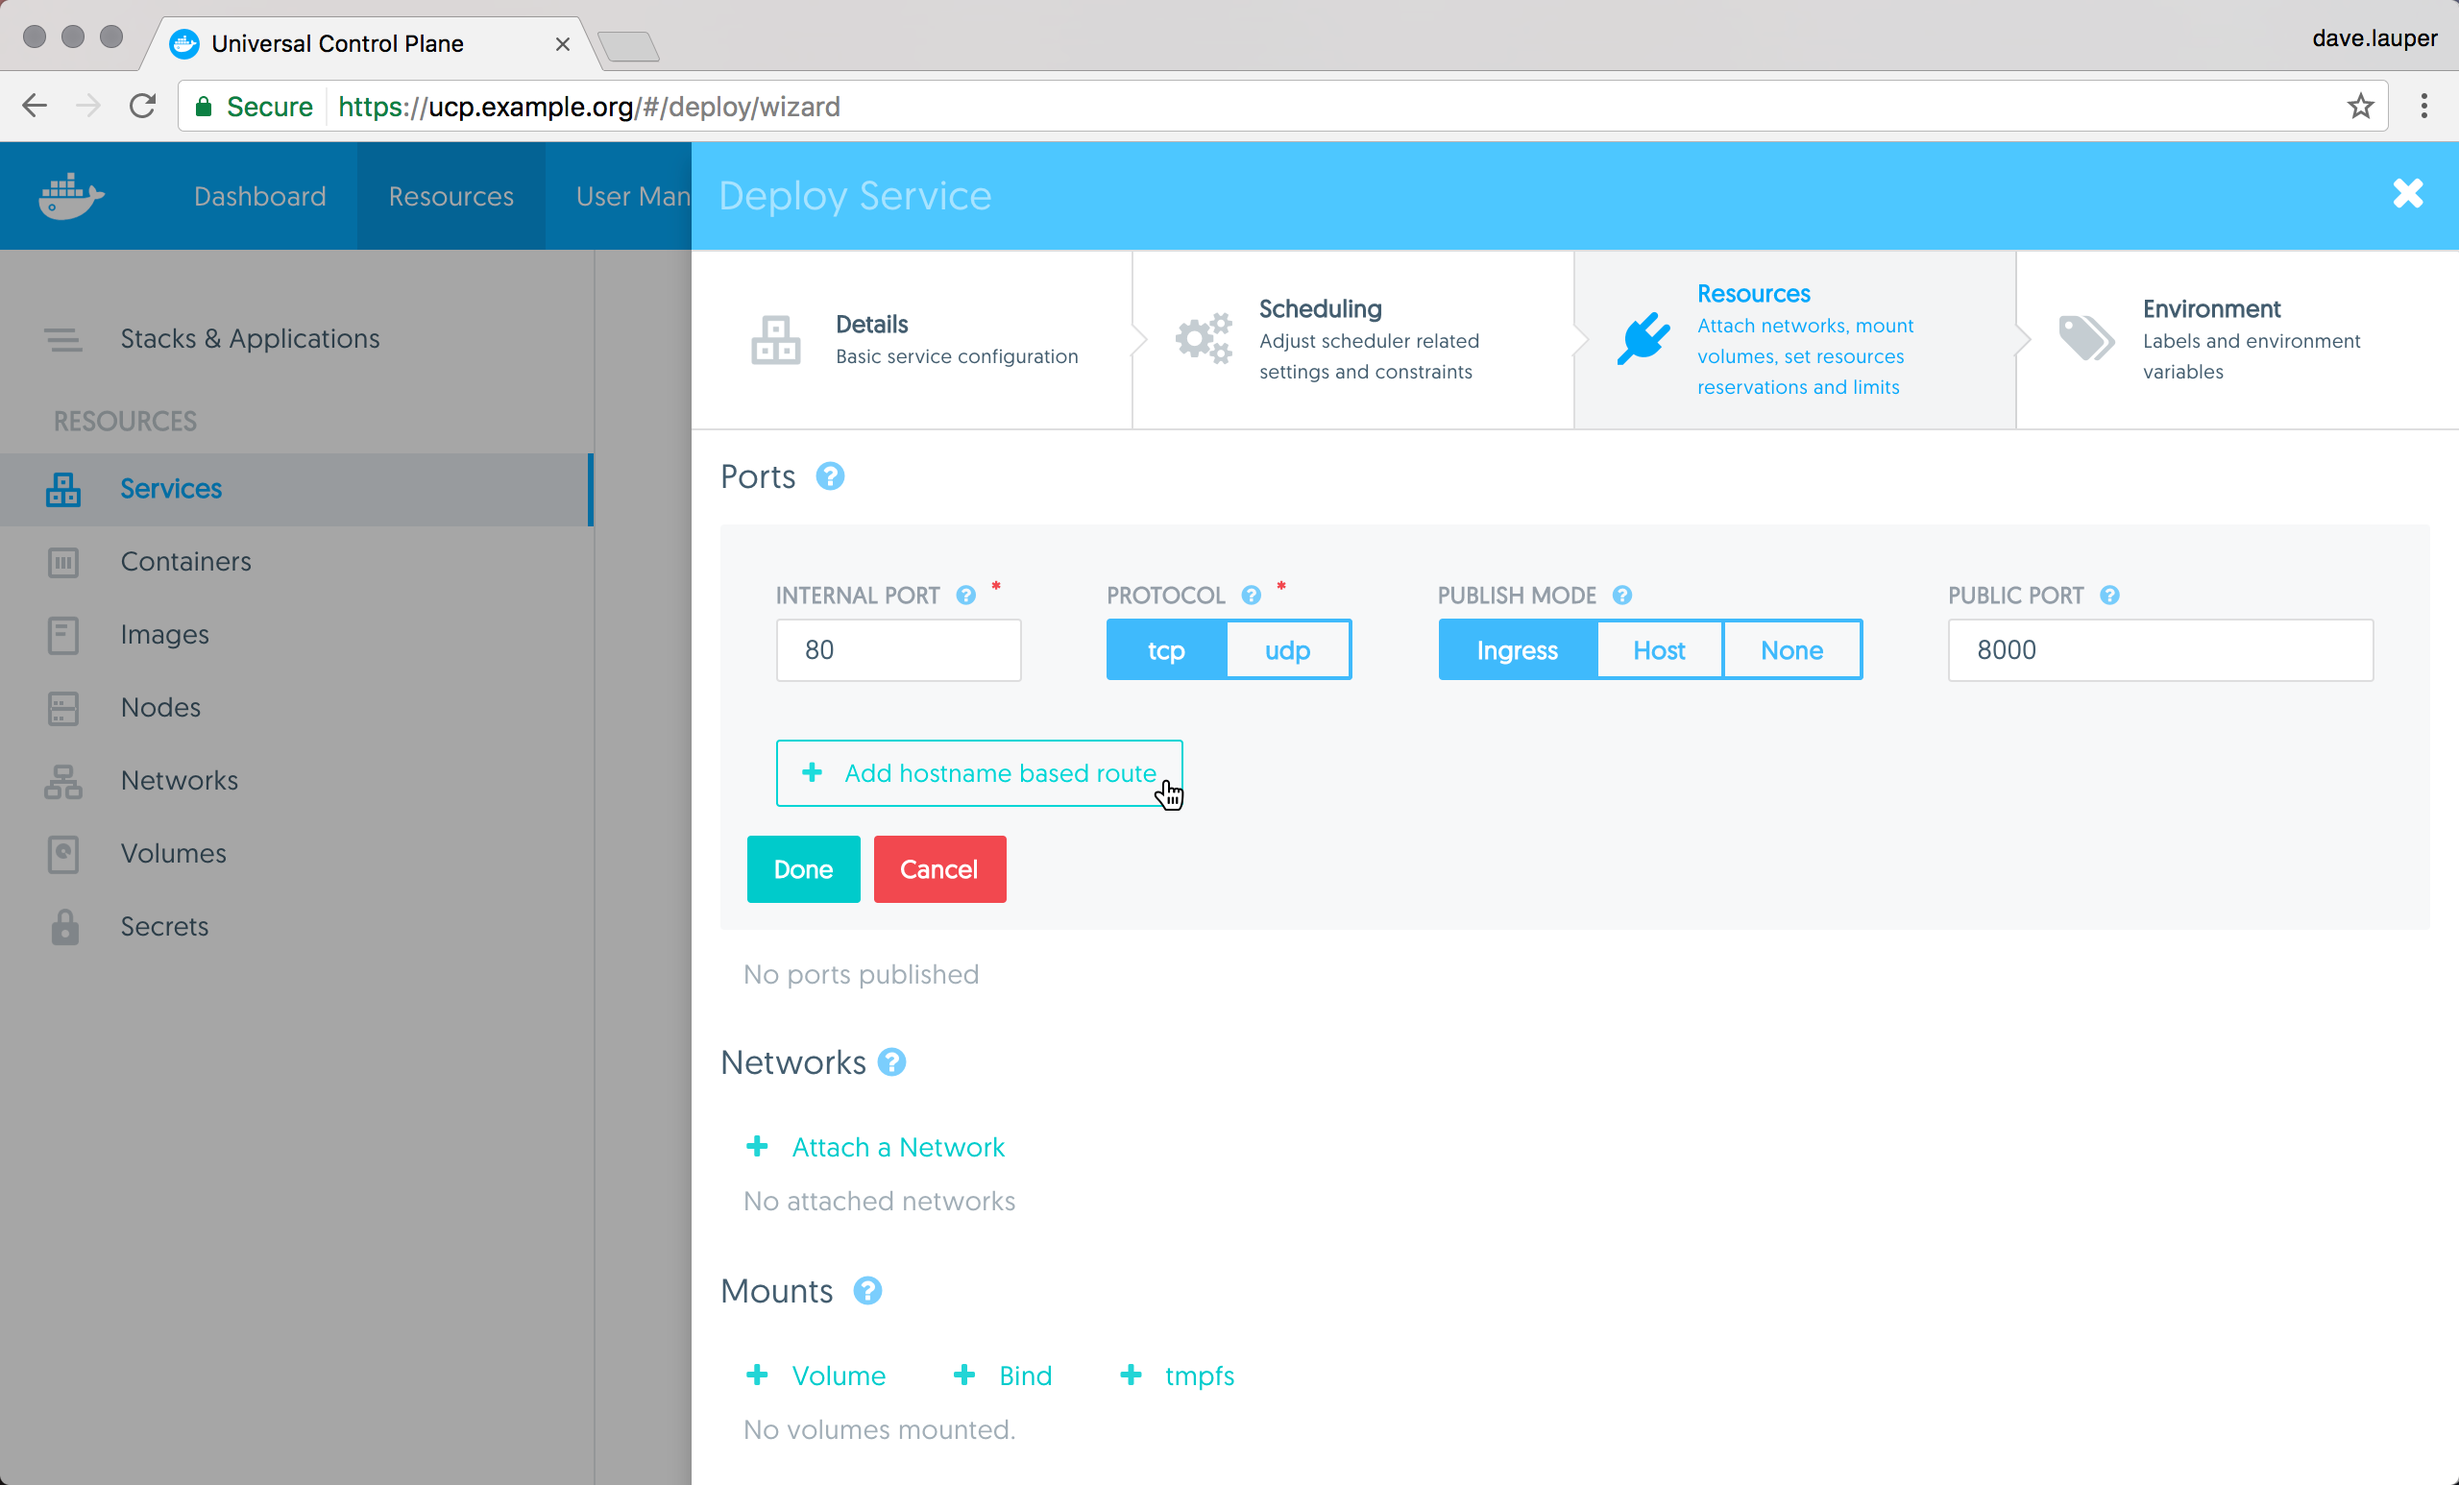
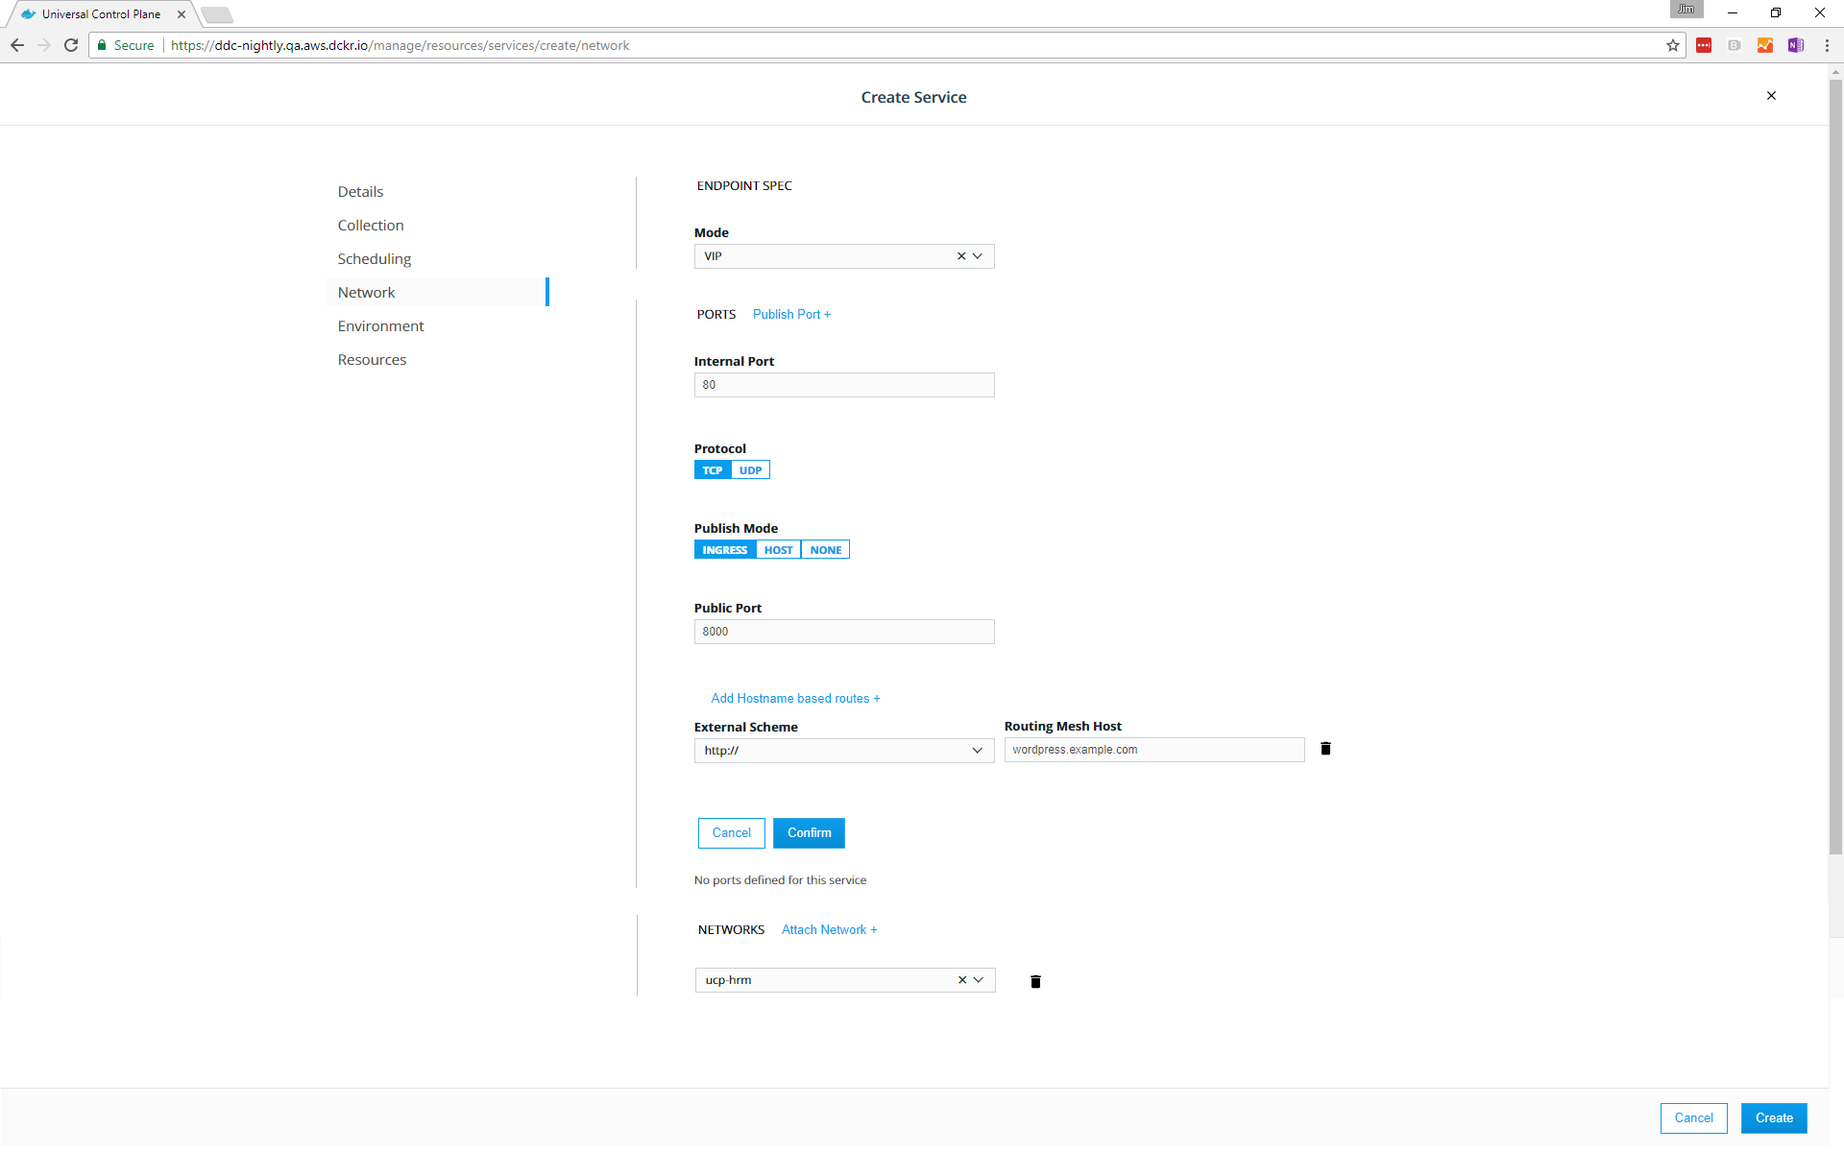
Update HRM topics and screenshots (#107)
* Update hrm screenshot

* Update HRM topics and screenshots

diff --git a/datacenter/ucp/2.2/guides/user/services/use-domain-names-to-access-services.md b/datacenter/ucp/2.2/guides/user/services/use-domain-names-to-access-services.md
@@ -1,17 +1,17 @@
 ---
 title: Use domain names to access services
 description: Learn how to configure your services to make them accessible using a hostname instead of IP addresses and ports.
-keywords: ucp, services, http, dns
+keywords: ucp, services, http, dns, https, routing
 redirect_from:
 - /datacenter/ucp/2.1/guides/user/services/use-hostnames-to-access-your-service/
 ---
 
-You can make it easier for users to access your HTTP and HTTPS services, by
+You can make it easier for users to access your HTTP and HTTPS services by
 making them accessible from a domain name, instead of an IP address.
 
 ![http routing mesh](../../images/use-domain-names-2.svg)
 
-In this example, we're going to deploy a Wordpress service and make it accessible
+In this example, we're going to deploy a WordPress service and make it accessible
 to users at `http://wordpress.example.org`.
 
 ## Enable the HTTP routing mesh
@@ -20,22 +20,41 @@ Before you start, make sure an administrator user has
 [enabled the HTTP routing mesh service](../../admin/configure/use-domain-names-to-access-services.md).
 You also need permissions to attach services to the `ucp-hrm` network.
 
-## Deploy Wordpress
+## Deploy WordPress
 
-Log in the **UCP web UI**, navigate to the **Services** page, and click
-**Create a service**. Then create a Wordpress service with the following
-configurations:
+Log in the UCP web UI, navigate to the **Services** page, and click
+**Create Service**. Then create a WordPress service with the following
+configuration:
 
 | Field             | Value                 |
 |:------------------|:----------------------|
 | Service name      | wordpress             |
 | Image name        | wordpress:latest      |
+
+In the left pane, click **Network**. In the **Ports** section, click **Publish Port**
+and assign the following values.
+
+
+| Field             | Value                 |
+|:------------------|:----------------------|
 | Internal port     | 80                    |
 | Protocol          | tcp                   |
 | Publish Mode      | ingress               |
 | Public port       | 8000                  |
+
+Click **Add Hostname based routes** and assign the routing values.
+
+| Field             | Value                 |
+|:------------------|:----------------------|
 | External scheme   | http://               |
 | Routing mesh host | wordpress.example.com |
+
+Click **Confirm** to assign the network configuration.
+
+Finally, you need to connect the service to the `ucp-hrm` network. This is
+what ensures traffic sent to the HTTP routing mesh is redirected to your
+service. In the **Networks** section, click **Attach Network** and select
+`ucp-hrm` from the dropdown list.
 
 When creating the service, make sure to publish both internal and public ports.
 This maps the port 80 on the container running the service, to port 8000 on the
@@ -43,24 +62,13 @@ ingress routing mesh.
 
 ![](../../images/use-domain-names-4.png){: .with-border}
 
-Then click the **Add hostname based route** to set the hostname that will
-resolve to the service.
-
-![](../../images/use-domain-names-5.png){: .with-border}
-
-Finally, you need to connect the service to the `ucp-hrm` network. This is
-what ensures traffic send to the HTTP routing mesh is redirected to your
-service.
-
-![](../../images/use-domain-names-6.png){: .with-border}
-
-Click **Deploy now** to deploy your service. Once the service is deployed,
+Click **Create** to deploy your service. Once the service is deployed,
 the HTTP routing mesh service is reconfigured to redirect HTTP requests with
-the hostname set to `wordpress.example.org`, to the Wordpress service.
+the hostname set to `wordpress.example.org`, to the WordPress service.
 
 ## Add a DNS entry
 
-Now that Wordpress is deployed, add a new DNS entry that maps
+Now that WordPress is deployed, add a new DNS entry that maps
 `wordpress.example.org` to the IP address of any node in the UCP cluster.
 When testing locally, you can also change your `/etc/hosts` file to
 create this mapping, instead of using a DNS service.
@@ -71,7 +79,7 @@ Once this is done, you can access the wordpress service from your browser.
 
 ## From the CLI
 
-To deploy the Wordpress service from the CLI, you need to add labels to the
+To deploy the WordPress service from the CLI, you need to add labels to the
 service that are specific to the HTTP routing mesh.
 
 Once you get your [UCP client bundle](../access-ucp/cli-based-access.md), you
@@ -95,16 +103,24 @@ to your services.
 
 The HTTP routing mesh can route to a service, as long as that service:
 
-* Is attached to a network that has the `com.docker.ucp.mesh.http` label. You can use the default ucp-hrm network or create your own.
-* Publishes the ports that you want to route to
-* Has one or more labels with the prefix `com.docker.ucp.mesh.http`, specifying
-the ports to route to
+*  Is attached to a network that has the `com.docker.ucp.mesh.http` label.
+   You can use the default `ucp-hrm` network or create your own.
+*  Publishes the ports that you want to route to.
+*  Has one or more labels with the prefix `com.docker.ucp.mesh.http`, specifying
+   the ports to route to.
 
 ### Service labels
 
 The HTTP routing mesh label that you apply to your services needs to have a list
 of keys and values separated by a comma, specifying how to route the traffic to
-your service. The label syntax looks like this:
+your service.
+
+The label for the WordPress service you just created looks like this:
+
+-  Key: `com.docker.ucp.mesh.http.80-1`
+-  Value: `internal_port=8000,external_route=http://wordpress.example.com` 
+
+The label syntax looks like this:
 
 ```none
 com.docker.ucp.mesh.http[.label-number]=<key-1>=<value-1>,<key-2>=<value-2>

diff --git a/datacenter/ucp/2.2/guides/admin/configure/use-domain-names-to-access-services.md b/datacenter/ucp/2.2/guides/admin/configure/use-domain-names-to-access-services.md
@@ -1,8 +1,7 @@
 ---
-title: Use domain names to access services
-description: Docker Universal Control Plane has an HTTP routing mesh that
-  allows you to make your services accessible through a domain name. Learn more.
-keywords: ucp, services, http, dns
+title: Enable using domain names to access services
+description: Docker Universal Control Plane has an HTTP routing mesh that allows you to make your services accessible through a domain name.
+keywords: ucp, services, http, https, dns, routing
 ---
 
 Docker has a transport-layer load balancer, also known as an L4 load balancer.
@@ -11,34 +10,34 @@ running.
 
 ![swarm routing mesh](../../images/use-domain-names-1.svg)
 
-In this example, the wordpress service is being served on port 8080.
-Users can access wordpress using the IP address of any node
-in the cluster and port 8080. If wordpress is not running in that node, the
+In this example, the WordPress service is being served on port 8000.
+Users can access WordPress using the IP address of any node in the swarm
+and port 8000. If WordPress is not running in that node, the
 request is redirected to a node that is.
 
 UCP extends this and provides an HTTP routing mesh for application-layer
-load balancing. This allows you to access services with HTTP and HTTPS endpoints
-using a domain name instead of an IP.
+load balancing. This allows you to access services with HTTP and HTTPS
+endpoints using a domain name instead of an IP.
 
 ![http routing mesh](../../images/use-domain-names-2.svg)
 
-In this example, the Wordpress service listens on port 8080 and is attached to
+In this example, the WordPress service listens on port 8000 and is attached to
 the `ucp-hrm` network. There's also a DNS entry mapping `wordpress.example.org`
 to the IP addresses of the UCP nodes.
 
-When users access `wordpress.example.org:80`, the HTTP routing mesh routes
-the request to the service running Wordpress in a way that is transparent to
+When users access `wordpress.example.org:8000`, the HTTP routing mesh routes
+the request to the service running WordPress in a way that is transparent to
 the user.
 
 ## Enable the HTTP routing mesh
 
-To enable the HTTP routing mesh, go to the **UCP web UI**, navigate to the
-**Settings** page, and click the **Routing Mesh** option.
-Check the **Enable HTTP routing mesh** option.
+To enable the HTTP routing mesh, Log in as an administrator, go to the
+UCP web UI, navigate to the **Admin Settings** page, and click the
+**Routing Mesh** option. Check the **Enable routing mesh** option.
 
 ![http routing mesh](../../images/use-domain-names-3.png){: .with-border}
 
-By default the HTTP routing mesh service listens on port 80 for HTTP and port
+By default, the HTTP routing mesh service listens on port 80 for HTTP and port
 8443 for HTTPS. Change the ports if you already have services that are using
 them.
 
@@ -61,7 +60,7 @@ When a user tries to access an HTTP service from that domain name:
 2. The HTTP routing mesh looks at the Hostname header in the HTTP request
 3. If there's a service that maps to that hostname, the request is routed to the
 port where the service is listening
-4. If not, the user receives an HTTP 503, bad gateway error
+4. If not, the user receives an `HTTP 503, bad gateway` error.
 
 For services exposing HTTPS things are similar. The HTTP routing mesh doesn't
 terminate the TLS connection, and instead leverages an extension to TLS called
@@ -79,4 +78,5 @@ requests.
 
 ## Where to go next
 
-* [Run only the images you trust](run-only-the-images-you-trust.md)
+- [Use domain names to access services](/datacenter/ucp/2.2/guides/user/services/use-domain-names-to-access-services/use-domain-names-to-access-services.md)
+- [Run only the images you trust](run-only-the-images-you-trust.md)
